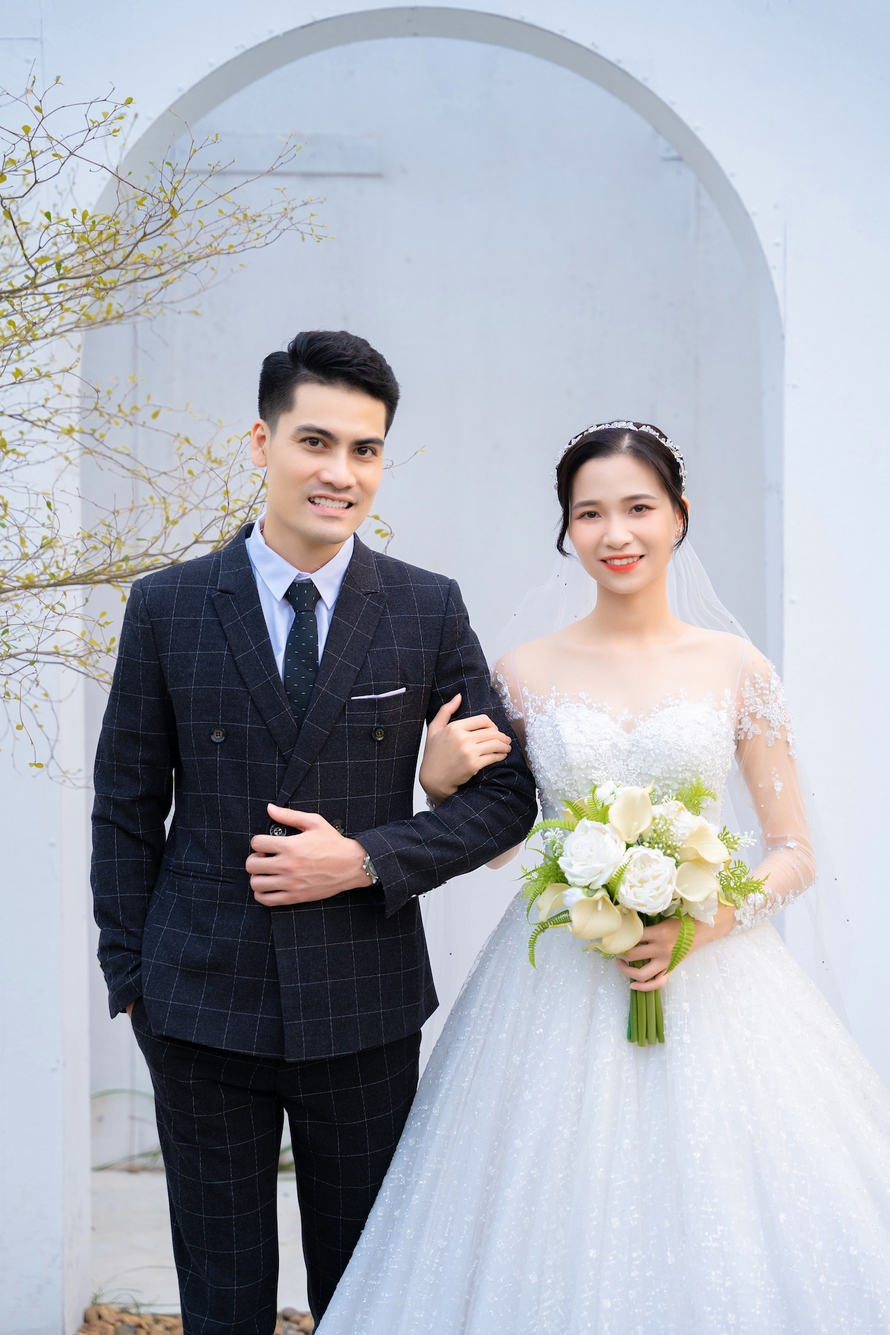
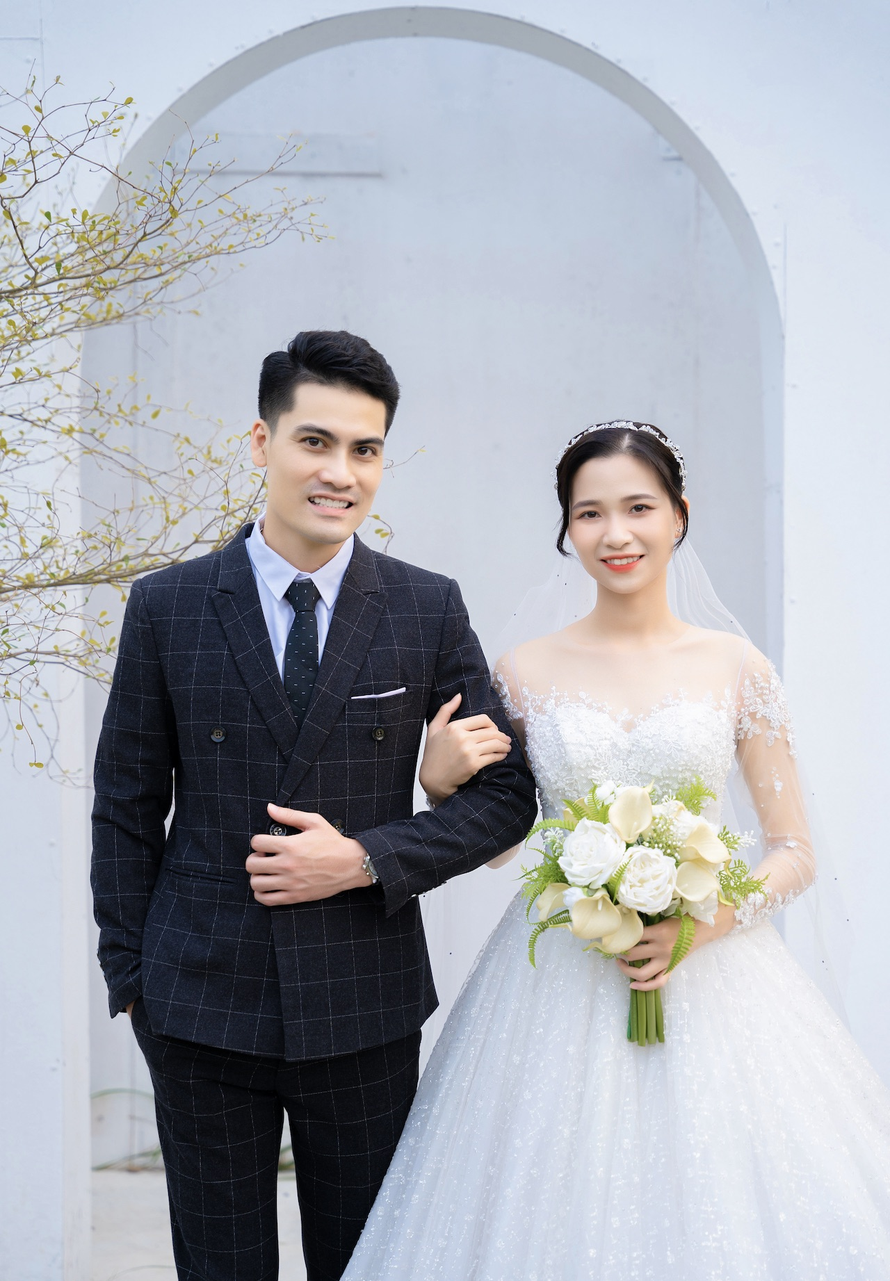
fix background

Changed region(s): [[0.0, 0.0619, 0.9375, 1.0], [0.8125, 0.1237, 0.8438, 0.1546], [0.7812, 0.0928, 0.8125, 0.1237]]

diff --git a/src/components/Wedding.js b/src/components/Wedding.js
@@ -148,7 +148,7 @@ export default function Wedding() {
                 <span>huyện Nam Trực, tỉnh Nam Định</span>
                 <a
                   className="map"
-                  href={'https://maps.app.goo.gl/vy9YjRsTfysNoJPX9?g_st=iz'}
+                  href={'https://goo.gl/maps/1oQNfEExtscoarY69'}
                 >
                   <img src={Map2Image} alt="map" />
                 </a>

diff --git a/src/components/FirstView.js b/src/components/FirstView.js
@@ -35,12 +35,13 @@ const StyledWrapper = styled.section`
     .cover {
       object-fit: cover;
       width: 100%;
-      min-height: 100vh;
+      min-height: 120vh;
     }
     .bg_image {
       z-index: -1;
       max-width: 1400px;
       width: 100%;
+      min-height: 1000px;
       margin: auto;
       /* height: 100vh; */
       position: absolute;

diff --git a/src/components/Constant.js b/src/components/Constant.js
@@ -35,7 +35,7 @@ export default {
     'https://lh5.googleusercontent.com/p4sWb6Cb2qo657XzFK3sEkJu739Cn8PgnvkqP7yv1PSvBTajIKttyw4rT-3u3GEF9CQ=w2400'
   ],
   daily_pictures,
-  main_picture: BGImage1
+  main_picture: BGImage
 }
 
 // export default {
